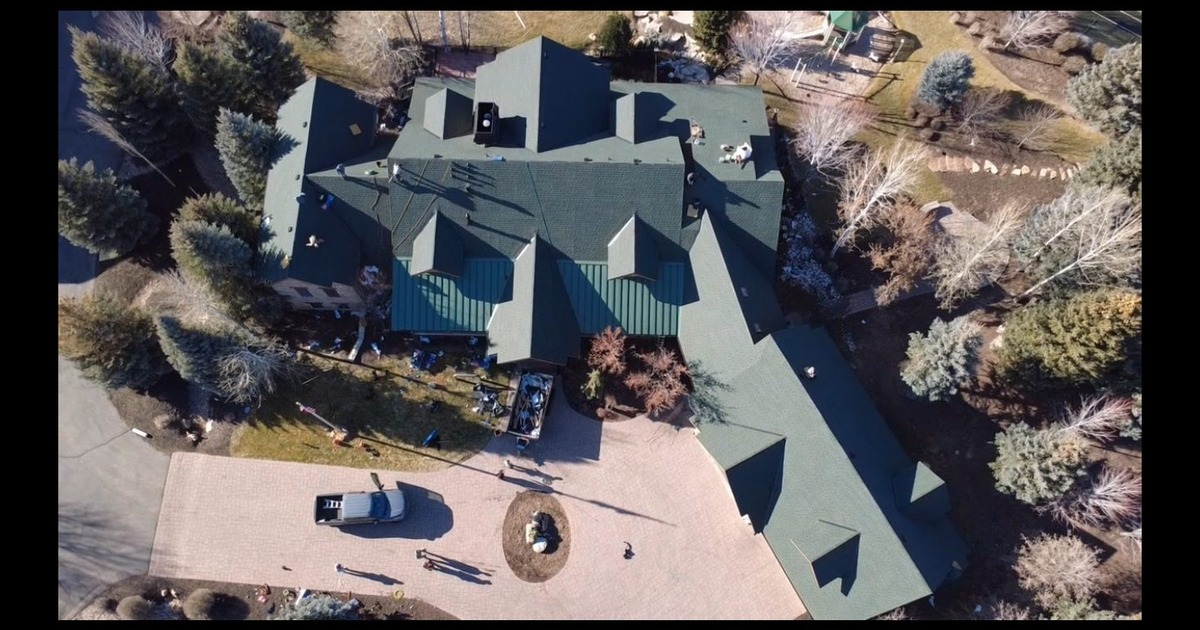
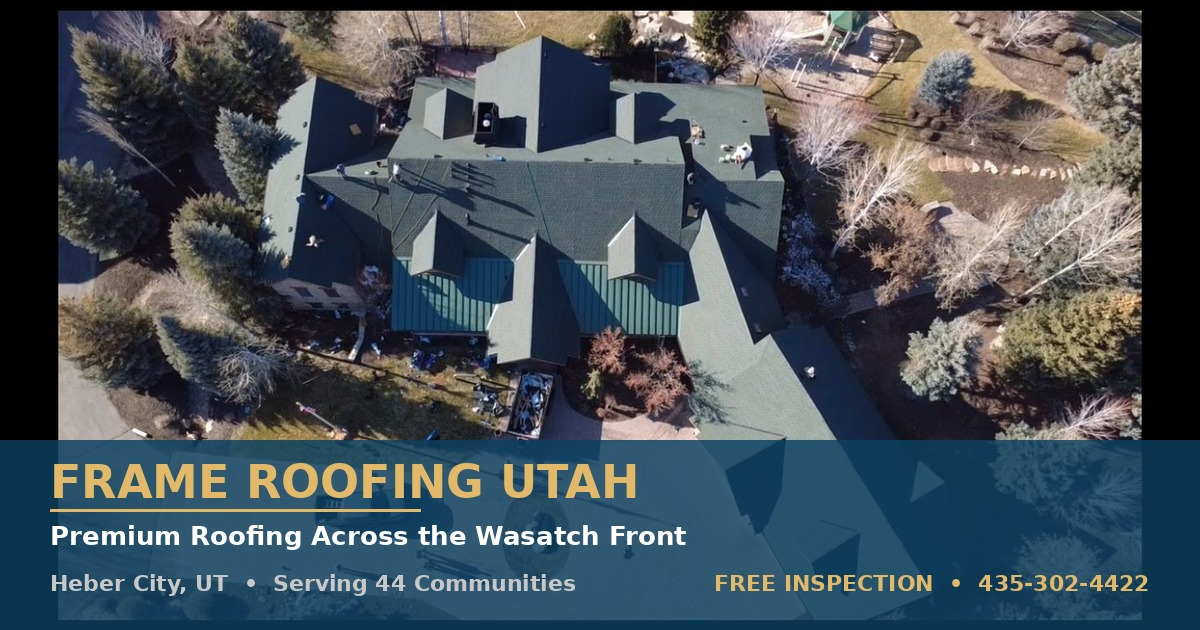
Branded OG image + fix title length for link previews
- New OG image: aerial roof photo with navy overlay, gold headline
  "FRAME ROOFING UTAH", tagline, location, and CTA with phone number
- Title tag: 59 chars (was 47, optimal is 50-60)
- Fixes all 3 OG validator issues: missing headline, missing CTA, short title

Changed region(s): [[0.0, 0.6937, 1.0, 1.0]]

diff --git a/index.html b/index.html
@@ -5,7 +5,7 @@
   <meta name="viewport" content="width=device-width, initial-scale=1.0, viewport-fit=cover" />
 
   <!-- SEO: Title 55 chars, keyword-first, Utah-specific -->
-  <title>Frame Roofing Utah | Premium Roofing Across the Wasatch Front</title>
+  <title>Frame Roofing Utah | Premium Roof Replacement & Storm Repair</title>
   <meta name="description" content="Utah's premium roofing contractor. Expert roof replacement, storm damage repair & free inspections across Salt Lake City, Park City, Heber City & the Wasatch Front. Call 435-302-4422." />
 
   <!-- Geo meta tags -->
